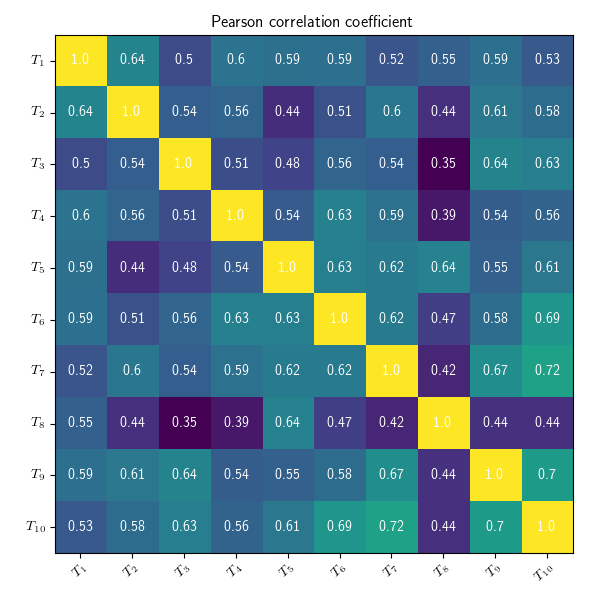
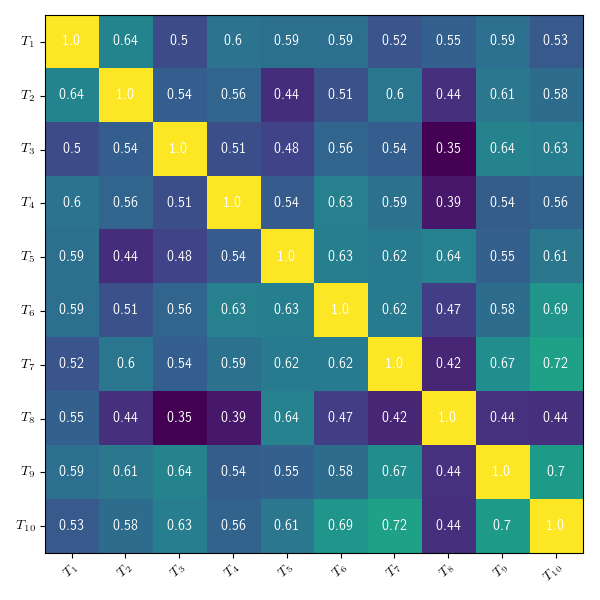
minor plots update

diff --git a/private/Vasiliev/plot_corrfun.py b/private/Vasiliev/plot_corrfun.py
@@ -71,7 +71,7 @@ for i in range(0, 10):
         text = ax.text(j, i, np.round(r[i, j],2),
                        ha="center", va="center", color="w")
 
-ax.set_title("Pearson correlation coefficient")
+# ax.set_title("Pearson correlation coefficient")
 fig.tight_layout()
 plt.draw()
 fig.savefig(path.join(outpath, "pcc.png"))
